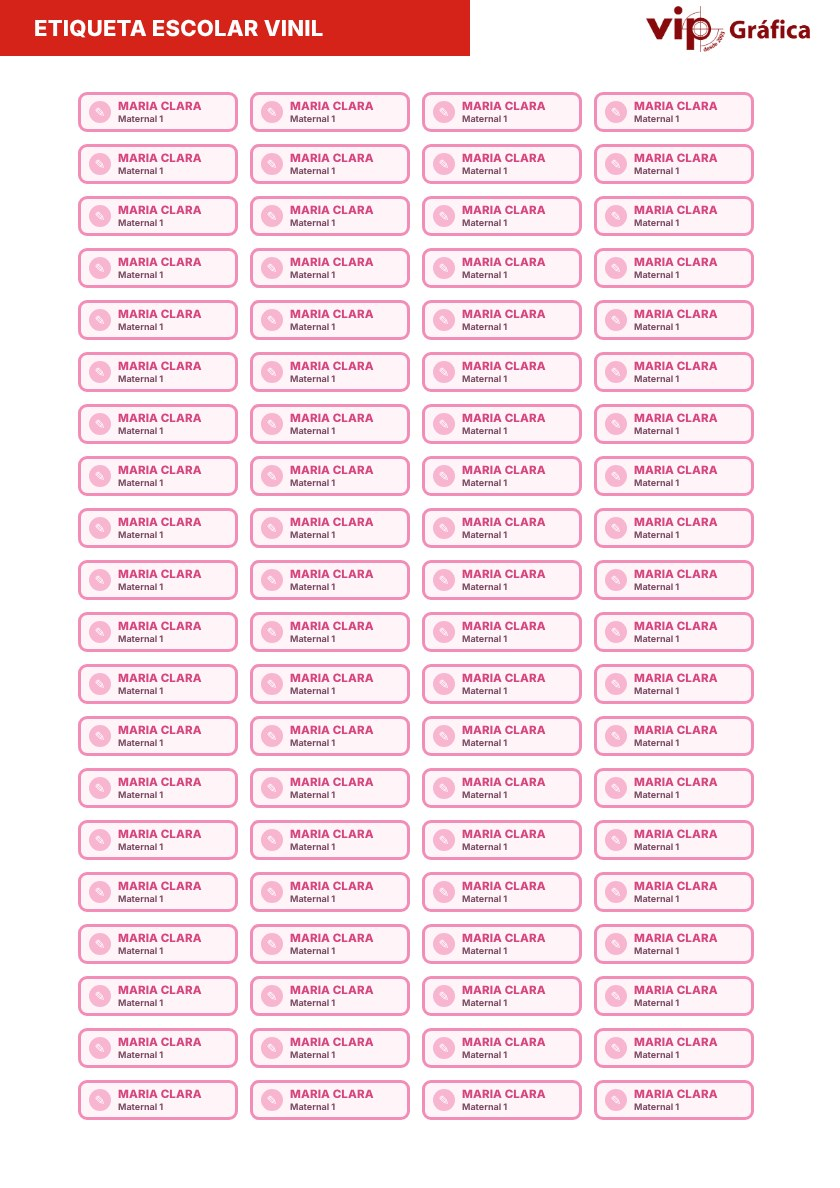
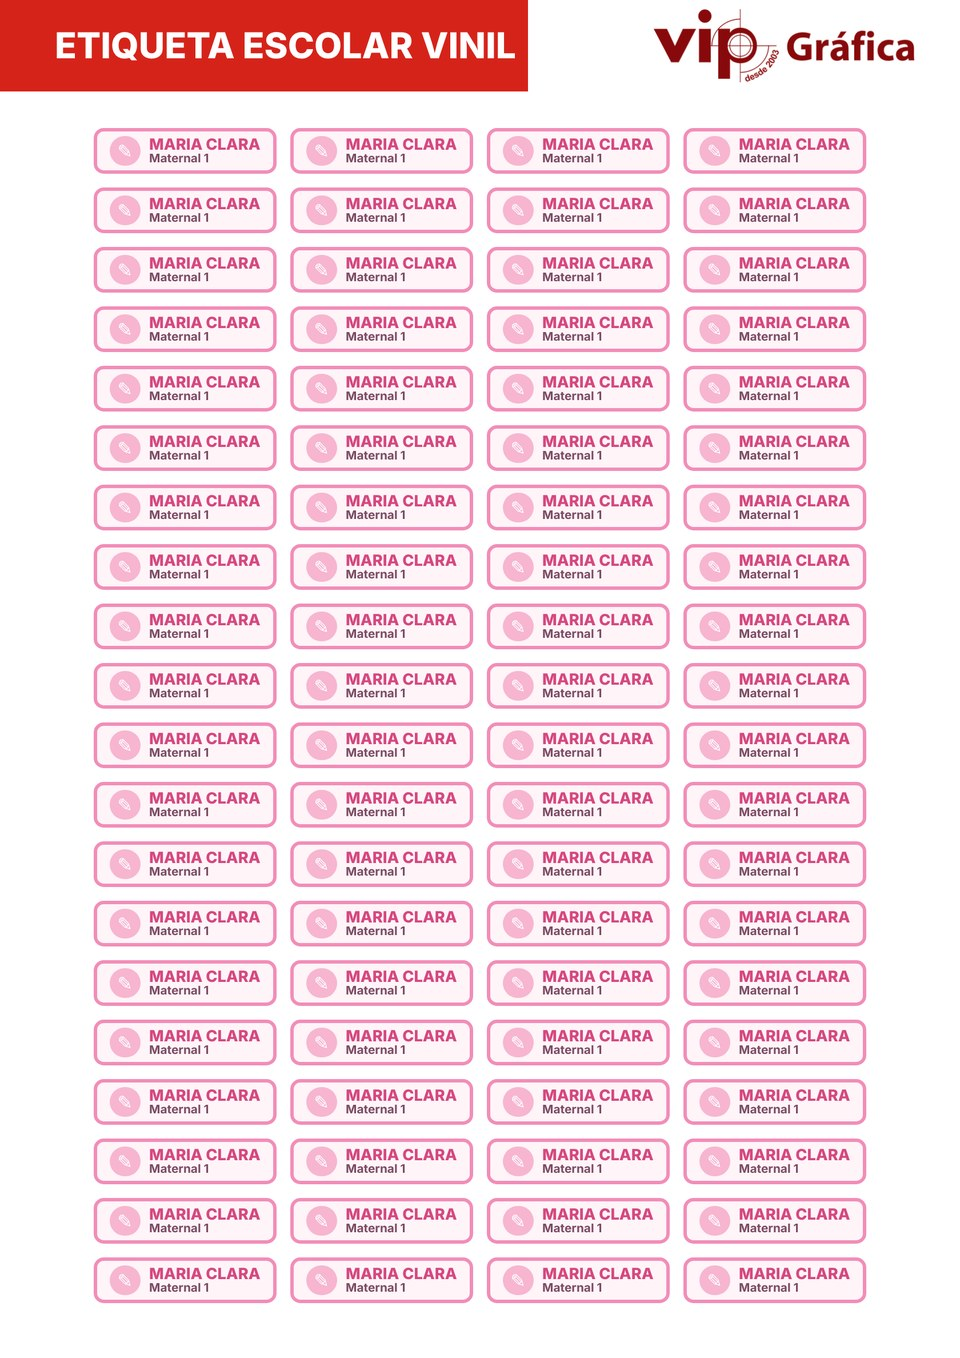
Exemplos das cartelas padronizados (mesma arte, layout de cada modelo)
Claude-Session: https://claude.ai/code/session_01VXk19fWCwB91YhAmk2yqk1

diff --git a/index.html b/index.html
@@ -279,7 +279,7 @@
     $("app").innerHTML = '<h2 class="tit">1. Escolha o modelo da cartela</h2><p class="sub">Folha de vinil, resistente à água. Cada cartela já vem com os tamanhos e quantidades abaixo.</p><div class="modelos">' +
       MODELOS.map(function (m) {
         return '<article class="modelo' + (estado.modelo === m.id ? " sel" : "") + '"><h3>' + esc(m.nome) + '</h3><div class="res">' + m.total + " etiquetas · " + m.tamanhos + (m.tamanhos === 1 ? " tamanho" : " tamanhos") + '</div>' +
-          '<button class="exemplo" type="button" data-zoom="' + esc(m.img) + '" aria-label="Ampliar exemplo da ' + esc(m.nome) + '"><img src="' + esc(m.img) + '" alt="Exemplo da ' + esc(m.nome) + '" loading="lazy" /><span class="lupa">🔍 ampliar</span></button><p class="leg">Exemplo de como a cartela fica (tema e nomes de exemplo)</p><div class="diag">' + diagHtml(m) + "</div>" +
+          '<button class="exemplo" type="button" data-zoom="' + esc(m.img) + '" aria-label="Ampliar exemplo da ' + esc(m.nome) + '"><img src="' + esc(m.img) + '" alt="Exemplo da ' + esc(m.nome) + '" loading="lazy" /><span class="lupa">🔍 ampliar</span></button><p class="leg">Exemplo ilustrativo de como a cartela fica (nome e tema são só de exemplo)</p><div class="diag">' + diagHtml(m) + "</div>" +
           '<div class="preco-linha"><div class="preco">' + brl(precoDe(m)) + " <small>cada cartela</small></div></div>" +
           '<button class="btn" type="button" data-modelo="' + m.id + '">Escolher este modelo</button></article>';
       }).join("") + '</div><div class="obs">Não alteramos tamanhos e quantidades das cartelas.</div>';
